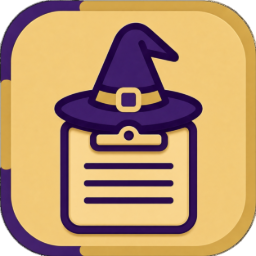
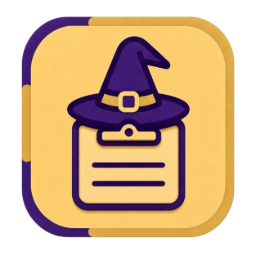
优化图标留白并补充开发者信息

diff --git a/src/components/SettingsSheet.tsx b/src/components/SettingsSheet.tsx
@@ -16,6 +16,10 @@ import {
   PanelTop,
   ListFilter,
   Palette,
+  UserRound,
+  Mail,
+  Globe2,
+  Scale,
 } from 'lucide-react'
 import type { FilterId, SecurityInfo, Settings } from '@shared/types'
 import { api } from '@/lib/api'
@@ -464,6 +468,56 @@ export function SettingsSheet({ onClose, onCleared, onToast }: Props) {
           </section>
 
           <UpdateSection onToast={onToast} />
+
+          {/* 开发者 */}
+          <section className="space-y-1.5">
+            <div className="text-[11px] text-black/45 dark:text-white/45">开发者</div>
+            <div className="overflow-hidden rounded-xl bg-black/[0.035] px-2.5 dark:bg-white/[0.055]">
+              <div className="flex h-8 items-center gap-2 border-b border-black/5 text-[11px] dark:border-white/7">
+                <UserRound className="size-3.5 text-black/35 dark:text-white/35" />
+                <span className="text-black/40 dark:text-white/40">作者</span>
+                <span className="ml-auto font-medium text-black/68 dark:text-white/70">
+                  Thewitchcat
+                </span>
+              </div>
+              <div className="flex h-8 items-center gap-2 border-b border-black/5 text-[11px] dark:border-white/7">
+                <Mail className="size-3.5 text-black/35 dark:text-white/35" />
+                <span className="text-black/40 dark:text-white/40">邮箱</span>
+                <a
+                  href="mailto:witchscottishfoldcat@gmail.com"
+                  target="_blank"
+                  rel="noreferrer"
+                  className="ml-auto text-black/60 transition hover:text-brand-600 dark:text-white/62 dark:hover:text-brand-400"
+                >
+                  witchscottishfoldcat@gmail.com
+                </a>
+              </div>
+              <div className="flex h-8 items-center gap-2 border-b border-black/5 text-[11px] dark:border-white/7">
+                <Globe2 className="size-3.5 text-black/35 dark:text-white/35" />
+                <span className="text-black/40 dark:text-white/40">网站</span>
+                <a
+                  href="https://www.witchcat.cn"
+                  target="_blank"
+                  rel="noreferrer"
+                  className="ml-auto text-black/60 transition hover:text-brand-600 dark:text-white/62 dark:hover:text-brand-400"
+                >
+                  www.witchcat.cn
+                </a>
+              </div>
+              <div className="flex h-8 items-center gap-2 text-[11px]">
+                <Scale className="size-3.5 text-black/35 dark:text-white/35" />
+                <span className="text-black/40 dark:text-white/40">开源协议</span>
+                <a
+                  href="https://creativecommons.org/licenses/by-nc-sa/4.0/deed.zh-hans"
+                  target="_blank"
+                  rel="noreferrer"
+                  className="ml-auto font-medium text-black/60 transition hover:text-brand-600 dark:text-white/62 dark:hover:text-brand-400"
+                >
+                  CC BY-NC-SA 4.0
+                </a>
+              </div>
+            </div>
+          </section>
 
           {/* 安全状态 */}
           {security && (
